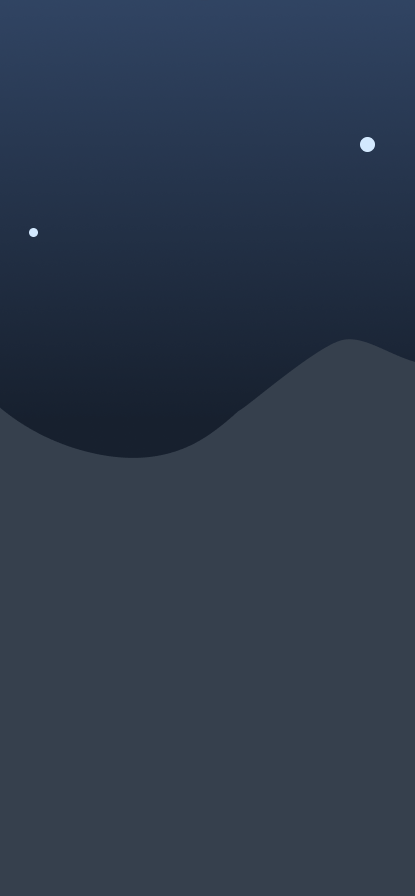
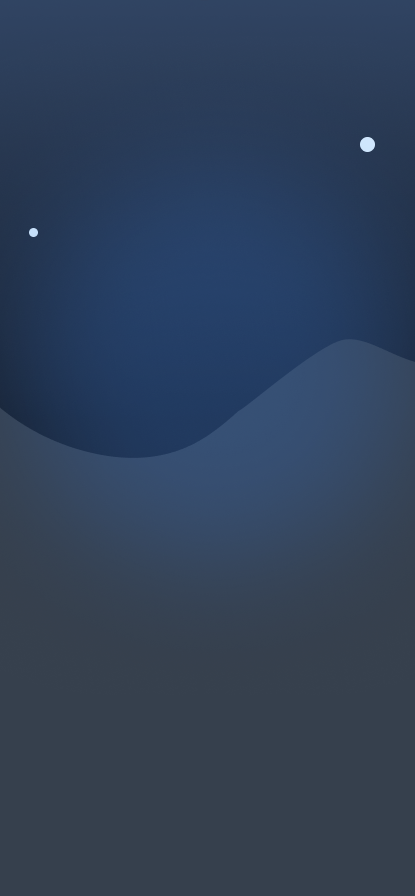
add first 3 onboarding screens

Changed region(s): [[0.0578, 0.2188, 0.9831, 0.625]]

diff --git a/cureifyapp/src/RoutingApp.jsx b/cureifyapp/src/RoutingApp.jsx
@@ -1,12 +1,20 @@
 import React, { Component } from 'react';
 import {BrowserRouter, Route, Routes} from 'react-router-dom'
 import Onboarding1 from './pages/Onboarding1';
+import Onboarding2 from './pages/Onboarding2';
+import Onboarding3 from './pages/Onboarding3';
+
+
 
 const RoutingApp = () => {
     return ( 
         <BrowserRouter>
         <Routes>
   <Route path='/onboarding-1' element={<Onboarding1 />} />
+<Route path='/onboarding-2' element={<Onboarding2 />} />
+<Route path='/onboarding-3' element={<Onboarding3 />} />
+
+
    
 
 